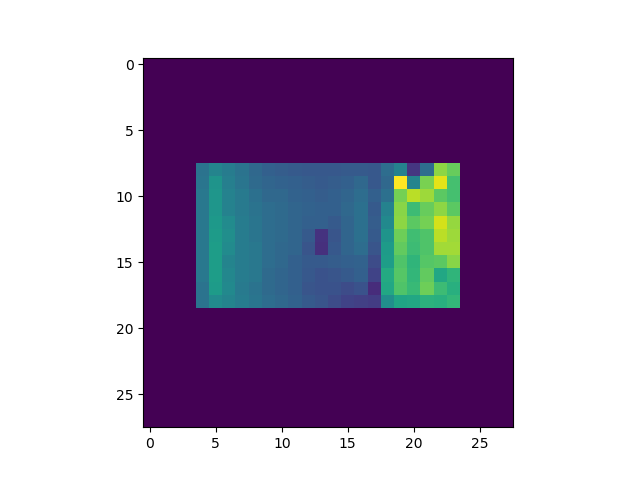
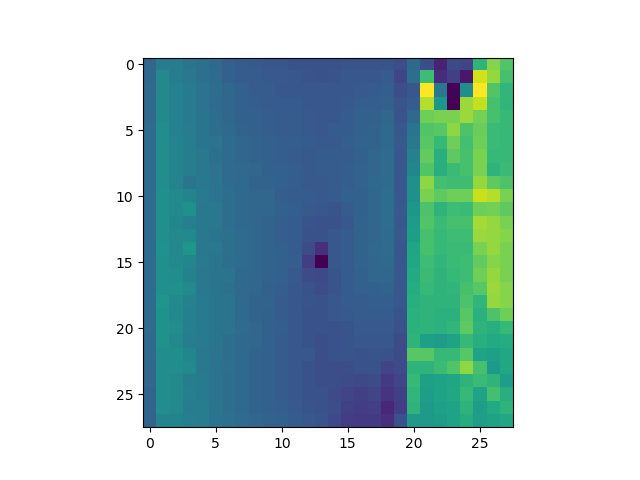
simpliefied extraction process

diff --git a/image_stitching/extract_pixels.py b/image_stitching/extract_pixels.py
@@ -16,46 +16,15 @@ def imageprepare(argv):
     The imput is a png file location.
     """
     im = Image.open(argv).convert('L')
-    width = float(im.size[0])
-    height = float(im.size[1])
-    newImage = Image.new('L', (28, 28), (255))  # creates white canvas of 28x28 pixels
+    img = im.resize((28, 28), Image.ANTIALIAS).filter(ImageFilter.SHARPEN)
 
-    if width > height:  # check which dimension is bigger
-        # Width is bigger. Width becomes 20 pixels.
-        nheight = int(round((20.0 / width * height), 0))  # resize height according to ratio width
-        if (nheight == 0):  # rare case but minimum is 1 pixel
-            nheight = 1
-            # resize and sharpen
-        img = im.resize((20, nheight), Image.ANTIALIAS).filter(ImageFilter.SHARPEN)
-        wtop = int(round(((28 - nheight) / 2), 0))  # calculate horizontal position
-        newImage.paste(img, (4, wtop))  # paste resized image on white canvas
-    else:
-        # Height is bigger. Heigth becomes 20 pixels.
-        nwidth = int(round((20.0 / height * width), 0))  # resize width according to ratio height
-        if (nwidth == 0):  # rare case but minimum is 1 pixel
-            nwidth = 1
-            # resize and sharpen
-        img = im.resize((nwidth, 20), Image.ANTIALIAS).filter(ImageFilter.SHARPEN)
-        wleft = int(round(((28 - nwidth) / 2), 0))  # caculate vertical pozition
-        newImage.paste(img, (wleft, 4))  # paste resized image on white canvas
-
-    # newImage.save("sample.png
-
-    tv = list(newImage.getdata())  # get pixel values
+    tv = list(img.getdata())  # get pixel values
 
     # normalize pixels to 0 and 1. 0 is pure white, 1 is pure black.
     tva = [(255 - x) * 1.0 / 255.0 for x in tv]
     return tva
 
-
-
-
-
-
-
 x=[imageprepare('/Users/tushardesai/Documents/all_things_code/projects/laser_video/data/frame37.jpg')]#file path here
-#print(len(x))# mnist IMAGES are 28x28=784 pixels
-#print(x[0])
 #Now we convert 784 sized 1d array to 24x24 sized 2d array so that we can visualize it
 newArr=[[0 for d in range(28)] for y in range(28)]
 k = 0
